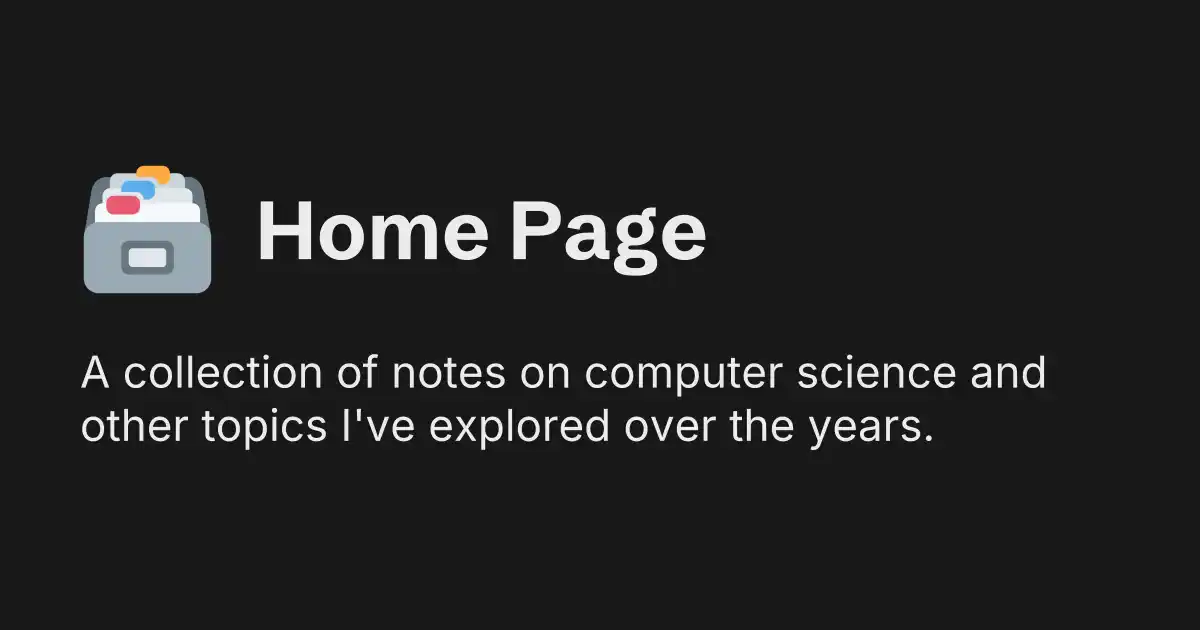
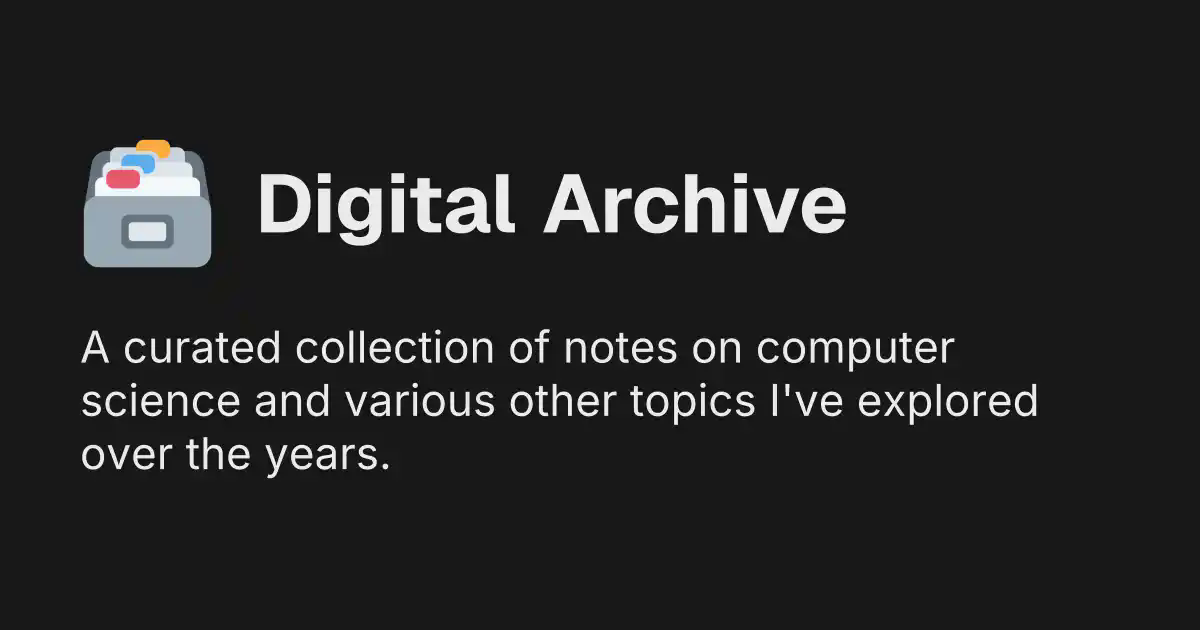
Vault Backup: 2025-03-01 21:00

Changed region(s): [[0.0617, 0.5127, 0.8942, 0.754], [0.2158, 0.2714, 0.7092, 0.4524], [0.0617, 0.2111, 0.185, 0.4825]]

diff --git a/config/quartz/components/Footer.tsx b/config/quartz/components/Footer.tsx
@@ -17,14 +17,15 @@ export default ((opts?: Options) => {
           © 2023-{year}{" "}
           <a href="https://www.linkedin.com/in/david-varghese/" target="_blank" rel="noreferrer noopener">
             David Varghese
-          </a>.{" "}Licensed under{" "}
+          </a>.<br />
+          Licensed under{" "}
           <a href="https://creativecommons.org/licenses/by/4.0/" target="_blank" rel="noreferrer noopener">
             CC BY 4.0
           </a>.<br />
           {" "}{i18n(cfg.locale).components.footer.createdWith}{" "}
           <a href="https://quartz.jzhao.xyz/" target="_blank" rel="noreferrer noopener">
             Quartz v{version}
-          </a>
+          </a>.
         </p>
 
         <ul>

diff --git a/config/quartz.layout.ts b/config/quartz.layout.ts
@@ -65,9 +65,10 @@ export const defaultContentPageLayout: PageLayout = {
 
             },
             globalGraph: {
-                linkDistance: 120,
-                repelForce: 0.8,
-                fontSize: 0.4,
+                linkDistance: 250,
+                repelForce: 1,
+                centerForce: 0.6,
+                fontSize: 0.3,
                 showTags: false
             }
         })

diff --git a/config/quartz/components/scripts/backtotop.inline.ts b/config/quartz/components/scripts/backtotop.inline.ts
@@ -1,4 +1,4 @@
-document.addEventListener("DOMContentLoaded", () => {
+document.addEventListener("nav", () => {
     const scrollToTopButton = document.getElementById("scrollToTop") as HTMLButtonElement;
 
     if (!scrollToTopButton) {

diff --git a/notes-vault/index.md b/notes-vault/index.md
@@ -1,6 +1,6 @@
 ---
-title: Home Page
-description: A collection of notes on computer science and other topics I've explored over the years.
+title: Digital Archive
+description: A curated collection of notes on computer science and various other topics I've explored over the years.
 tags:
   - main
   - index

diff --git a/notes-vault/cyber-security/tools/wireshark.md b/notes-vault/cyber-security/tools/wireshark.md
@@ -4,8 +4,8 @@ tags:
   - security
   - tool
   - networking
-date: 1969-12-31 18:00:00 -0600
-updated: 2025-01-23 15:04:25 -0600
+date: 2025-02-26 16:11:21 -0600
+updated: 2025-02-26 17:25:48 -0600
 ---
 
 ### Dump Cap
